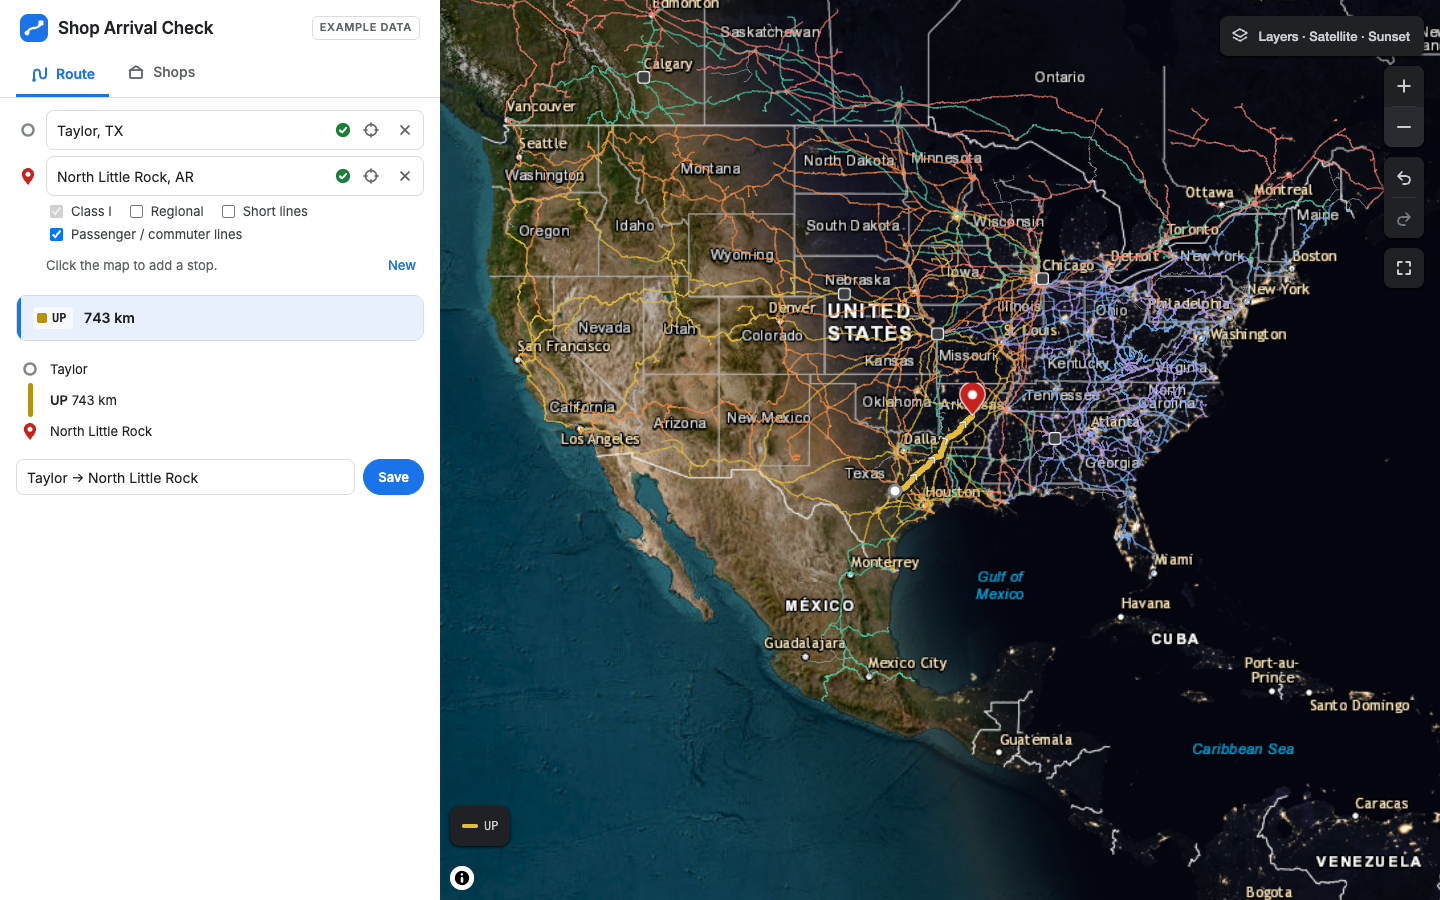
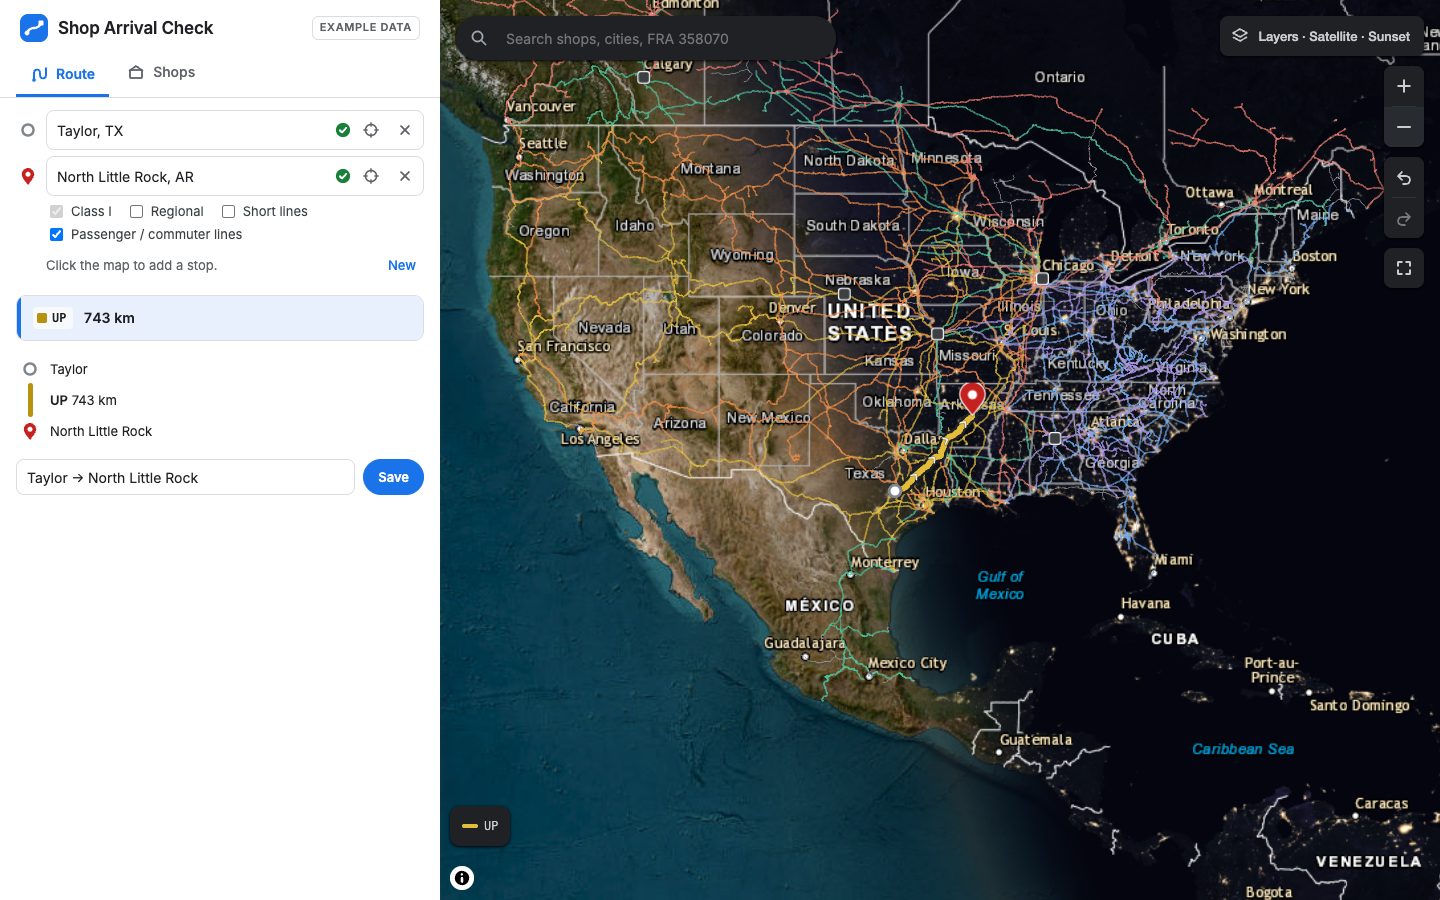
fix:8:r1: Fixed. The cause was the nowrap rule on shop codes. The phone layout (max-width 640px) kep
Fixed. The cause was the nowrap rule on shop codes. The phone layout (max-width 640px) kept `.shop-table td.mono` at `white-space: nowrap`, so a code like "DRAFT-UTLX-ECH" made the code column 115 px wide. That pushed the table to 359 px inside a 336 px card, and the Edit link was cut off.

The fix is one rule inside the phone media block in /Users/jiaqiyang/Documents/VisNARN/web/styles.css:
```css
.shop-table td.mono { white-space: normal; min-width: calc(9ch + 10px); }
```
Codes can now break after a hyphen ("DRAFT-" / "UTLX-ECH"). The min-width keeps short codes like "EX-BHM-01" on one line; the browser counts the cell padding inside a table cell's min-width, which is why it is 9ch + 10px. Desktop is unchanged.

I checked it in my own app copy on port 8891, with the public Marmon shops imported, using a Playwright script; I stopped the copy afterwards. At 360 px the table went from scrollWidth 359 / clientWidth 336 to 336 / 336. The right edge of every Edit is at 343, inside the card edge at 348. At 390 px nothing changed: it fits as before, Edit right edge 373.

At 320 px the table still overflows a little (Edit right edge 328 against the card edge 308). That width was not part of the finding, so I left it.

Screenshots: /private/tmp/claude-501/-Users-jiaqiyang-Documents-VisNARN/b87b3f7b-8c95-4b88-b9bb-a4d72660502e/scratchpad/qa/shots/shoptable-before-w360.png and /private/tmp/claude-501/-Users-jiaqiyang-Documents-VisNARN/b87b3f7b-8c95-4b88-b9bb-a4d72660502e/scratchpad/qa

Changed region(s): [[0.3125, 0.0, 0.5938, 0.0933]]

diff --git a/tests/e2e/real-tracks.spec.ts b/tests/e2e/real-tracks.spec.ts
@@ -1,0 +1,57 @@
+/**
+ * Real tracks in a real browser: ticked, the routes are drawn along the surveyed track and, zoomed in,
+ * the OpenStreetMap lines replace the Class I network layer; unticked, both are node to node again.
+ */
+import type { Page } from "@playwright/test";
+import type { LngLat } from "../../shared/geo.ts";
+import { haversineKm } from "../../shared/geo.ts";
+import { expect, expectMapCanvases, planRoute, test } from "./app.ts";
+
+const lengthKm = (path: LngLat[]) => path.slice(1).reduce((km, [lon, lat], i) => km + haversineKm(path[i][0], path[i][1], lon, lat), 0);
+
+async function setRealTracks(page: Page, on: boolean): Promise<void> {
+  const layers = page.getByRole("button", { name: /^Map layers/ });
+  await layers.click();
+  const box = page.getByRole("checkbox", { name: "Real tracks" });
+  if ((await box.getAttribute("aria-checked")) !== String(on)) await box.click();
+  await expect(box).toHaveAttribute("aria-checked", String(on));
+  await layers.click();
+}
+
+test("Real tracks draws the routes on the surveyed track and, zoomed in, shows the real lines instead of the network", async ({ page }) => {
+  await page.goto("/route");
+  await expectMapCanvases(page);
+  const planned = await planRoute(page, "Taylor, TX", "North Little Rock, AR");
+  if (planned.outcome !== "routed") throw new Error(`not routed: ${planned.outcome}`);
+  const network = page.locator(".map-canvas");
+  await expect(network).toHaveAttribute("data-network", "shown");
+
+  const asked = page.waitForResponse((r) => r.url().endsWith("/api/track") && r.ok());
+  await setRealTracks(page, true);
+  const answer = await asked;
+  const nodes = (answer.request().postDataJSON() as { paths: LngLat[][] }).paths;
+  const drawn = (await answer.json()) as LngLat[][];
+
+  // Every leg of every route, each from the same node to the same node, with the track's curves in between.
+  expect(nodes.length).toBe(planned.routes.reduce((n, route) => n + route.legs.length, 0));
+  expect(drawn.length).toBe(nodes.length);
+  drawn.forEach((line, i) => {
+    expect(line[0]).toEqual(nodes[i][0]);
+    expect(line.at(-1)).toEqual(nodes[i].at(-1));
+  });
+  const count = (paths: LngLat[][]) => paths.reduce((n, path) => n + path.length, 0);
+  expect(count(drawn)).toBeGreaterThan(3 * count(nodes));
+  // Along the track, the routes are as long as the track km they were routed on; node to node they cut the curves.
+  const km = planned.routes.reduce((sum, route) => sum + route.km, 0);
+  const drawnKm = drawn.reduce((sum, line) => sum + lengthKm(line), 0);
+  expect(Math.abs(drawnKm - km) / km).toBeLessThan(0.005);
+  expect(nodes.reduce((sum, path) => sum + lengthKm(path), 0)).toBeLessThan(0.98 * km);
+
+  // Zoomed out, OpenStreetMap has few rail lines, so the network stays; zoomed in, the real lines replace it.
+  await expect(network).toHaveAttribute("data-network", "shown");
+  for (let i = 0; i < 3; i++) await page.getByRole("button", { name: "Zoom in" }).click();
+  await expect(network).toHaveAttribute("data-network", "hidden");
+
+  await setRealTracks(page, false);
+  await expect(network).toHaveAttribute("data-network", "shown");
+});

diff --git a/web/styles.test.ts b/web/styles.test.ts
@@ -8,4 +8,20 @@ describe("styles.css", () => {
   it("has no date or time input selectors", () => {
     expect(css).not.toMatch(/type="(datetime-local|date|time)"/);
   });
+
+  // jsdom has no layout, so this reads the rule: a nowrap "DRAFT-UTLX-ECH" made the shop table wider than a 360 px card and clipped Edit.
+  it("lets a shop code wrap on a phone so each row's Edit stays visible", () => {
+    const start = css.indexOf("@media (max-width: 640px)");
+    expect(start).toBeGreaterThan(-1);
+    let depth = 0;
+    let end = css.indexOf("{", start);
+    do {
+      if (css[end] === "{") depth++;
+      if (css[end] === "}") depth--;
+      end++;
+    } while (depth > 0 && end < css.length);
+    const phone = css.slice(start, end);
+    const rule = /\.shop-table td\.mono\s*\{([^}]*)\}/.exec(phone);
+    expect(rule?.[1]).toMatch(/white-space:\s*normal/);
+  });
 });

diff --git a/server/selftest.ts b/server/selftest.ts
@@ -1,7 +1,7 @@
 /**
  * `node server/main.ts --selftest`: proves, under plain Node rather than vitest's esbuild (which
  * accepts syntax Node refuses), that the server's sources load, a routing worker thread starts, the
- * EXAMPLE route plans, and it draws draws along the real track (track.bin matches graph.bin). It
+ * EXAMPLE route plans, and it draws along the real track (track.bin matches graph.bin). It
  * touches no database and opens no port.
  */
 import { loadNetwork, loadTrackShapes, type Trip } from "../engine/index.ts";

diff --git a/web/styles.css b/web/styles.css
@@ -1732,6 +1732,12 @@ input[aria-invalid="true"] {
     padding-left: 5px;
     padding-right: 5px;
   }
+  /* A long code breaks after a hyphen ("DRAFT-" / "UTLX-ECH"), so each row's Edit stays inside a 360 px card.
+     9ch plus the cell padding (a table cell's min-width counts it) keeps "EX-BHM-01" whole. */
+  .shop-table td.mono {
+    white-space: normal;
+    min-width: calc(9ch + 10px);
+  }
   .import-row {
     flex-wrap: wrap;
   }
